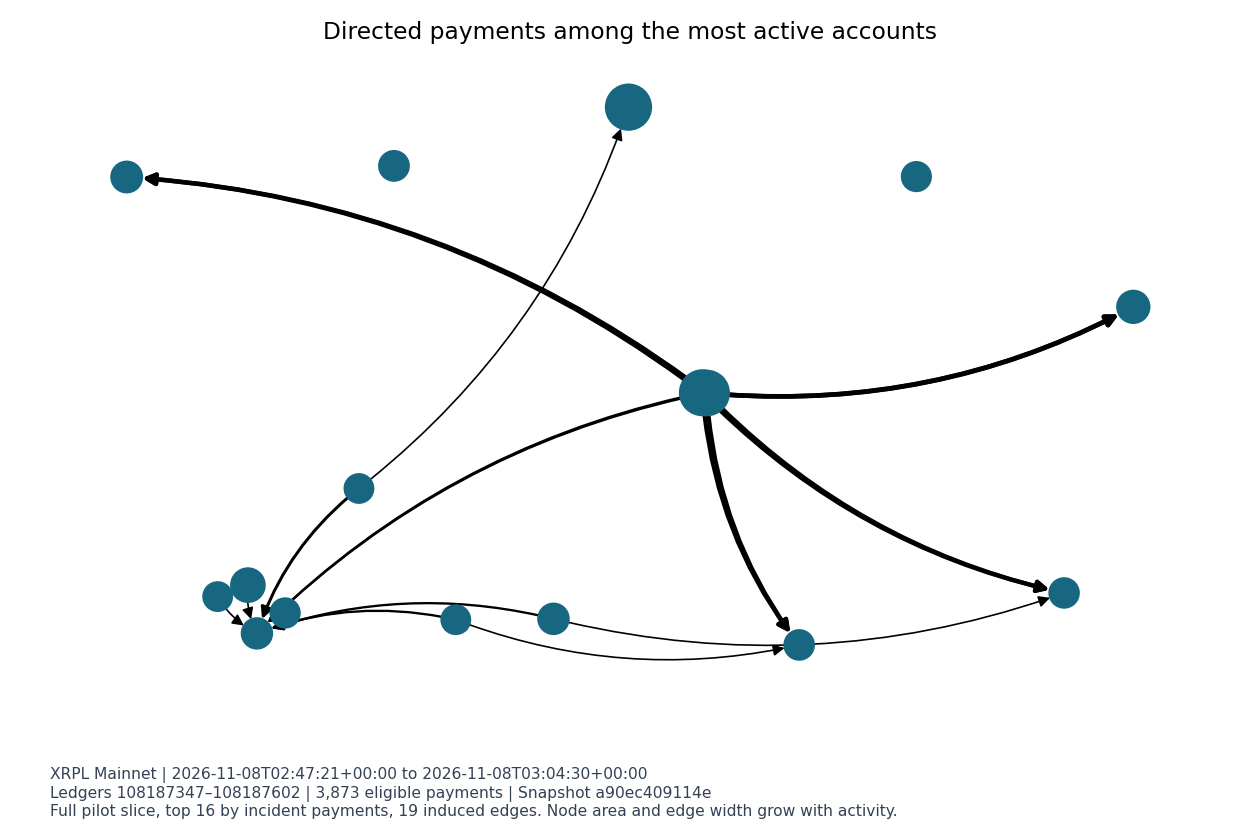
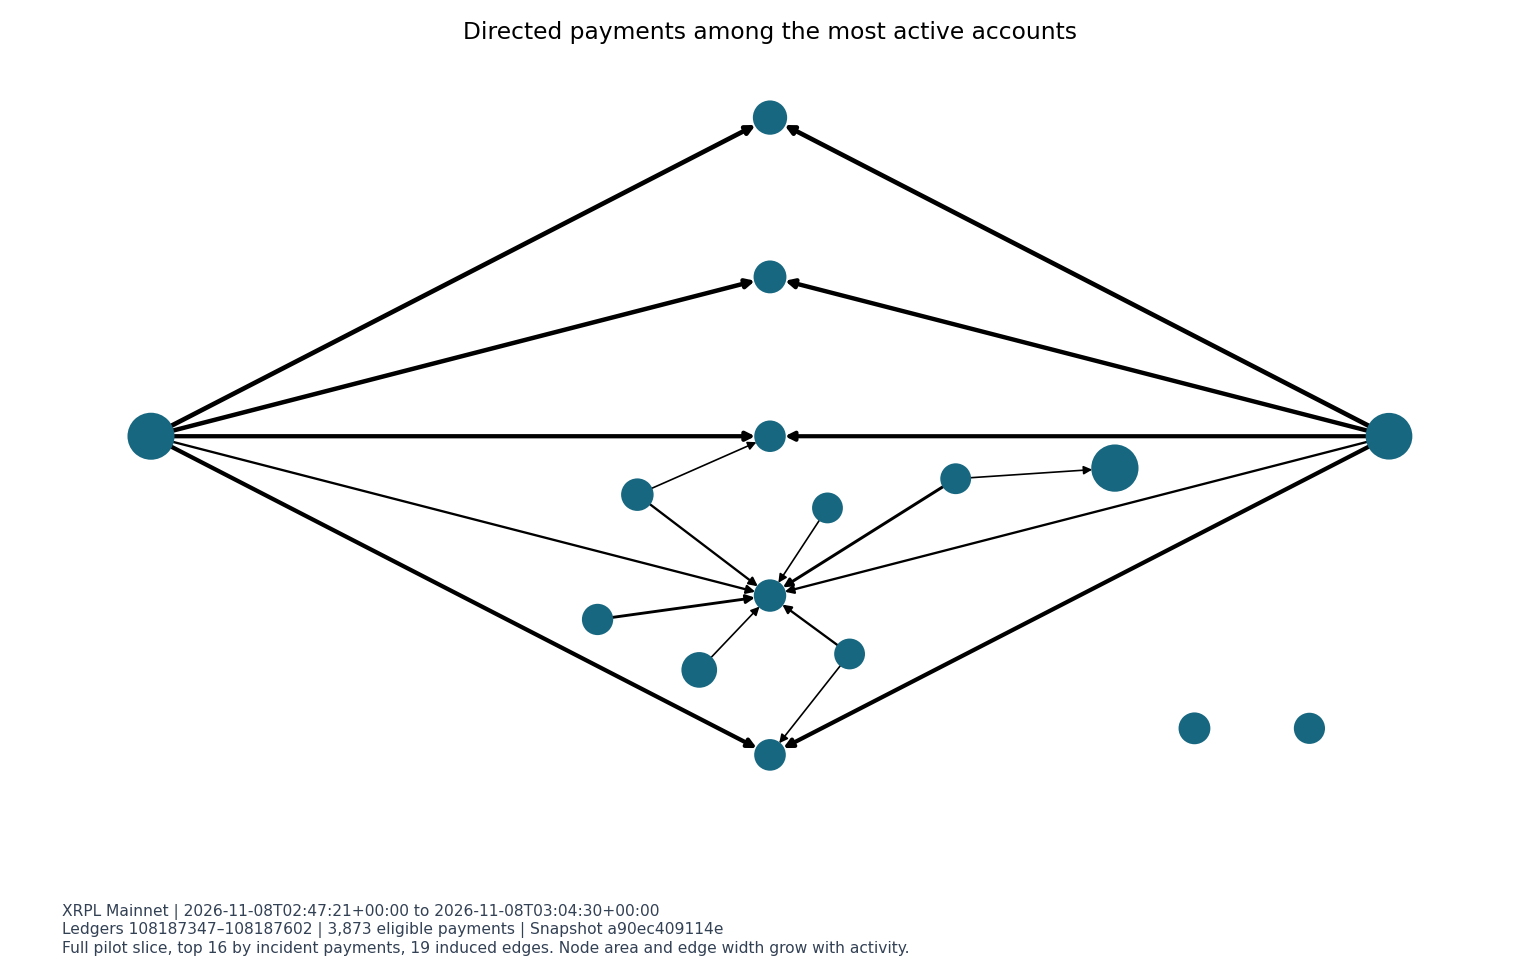
Clarify the frozen pilot payment network

diff --git a/src/xrpl_anomaly/plots.py b/src/xrpl_anomaly/plots.py
@@ -8,6 +8,14 @@ from .pilot import digest, dump
 BIN = 60
 SEED = 42
 MAX_NODES = 16
[1 lines of base64/hex data omitted]
+# Rank-indexed coordinates for the frozen pilot. Put the two senders on
+# opposite sides of their five shared recipients, with isolates at lower right.
+PILOT_LAYOUT = (
+    (3.9, -.6), (-7, 0), (7, 0), (-.8, -4.4), (0, 6), (0, 3),
+    (-1.5, -1.1), (0, -3), (4.8, -5.5), (0, -6), (0, 0), (-1.95, -3.45),
+    (6.1, -5.5), (.65, -1.35), (2.1, -.8), (.9, -4.1),
+)
 
 
 def minute_bins(ledgers):
@@ -101,18 +109,27 @@ def plot(ledgers, full, report, output):
              f"Complete 10-minute history only, n={len(full):,}. Prior activity is limited to eligible payments.")
 
     sizes, edges = graph_data(ledgers)
+    layout_name = None
+    layout_seed = None
     if edges:
         graph = nx.DiGraph()
         graph.add_nodes_from(range(len(sizes)))
         graph.add_weighted_edges_from(edges)
-        fig, ax = plt.subplots(figsize=(9, 6))
-        layout = nx.spring_layout(graph, seed=SEED)
+        frozen_pilot = report["snapshot_sha256"] == PILOT_SNAPSHOT and len(sizes) == len(PILOT_LAYOUT)
+        fig, ax = plt.subplots(figsize=(11, 7) if frozen_pilot else (9, 6))
+        if frozen_pilot:
+            layout = dict(enumerate(PILOT_LAYOUT))
+            layout_name = "frozen-pilot"
+        else:
+            layout = nx.spring_layout(graph, seed=SEED)
+            layout_name, layout_seed = "spring", SEED
         node_areas = [35 + 12 * log1p(n) ** 2 for n in sizes]
         nx.draw_networkx_nodes(graph, layout, node_size=node_areas, node_color="#176780", ax=ax)
         nx.draw_networkx_edges(graph, layout, width=[.5 + .5 * log1p(graph[u][v]["weight"])
                                                     for u, v in graph.edges],
-                               node_size=node_areas, arrowsize=12,
-                               connectionstyle="arc3,rad=0.15", ax=ax)
+                               node_size=node_areas, arrowsize=9 if frozen_pilot else 12,
+                               connectionstyle="arc3,rad=0" if frozen_pilot else "arc3,rad=0.15",
+                               ax=ax)
         ax.set_title("Directed payments among the most active accounts")
         ax.set_axis_off()
         save(fig, "directed-network",
@@ -125,7 +142,8 @@ def plot(ledgers, full, report, output):
         "command_arguments": report["command_arguments"],
         "environment": report["environment"], "matplotlib": matplotlib.__version__,
         "networkx": nx.__version__, "bin_seconds": BIN, "amount_histogram_bins": 35,
-        "feature_histogram_bins": 25, "layout_seed": SEED, "graph_max_nodes": MAX_NODES,
+        "feature_histogram_bins": 25, "graph_layout": layout_name, "layout_seed": layout_seed,
+        "graph_max_nodes": MAX_NODES,
         "graph_slice": report["range"], "graph_selection": "incident payment count descending, address ascending",
         "graph_edges": len(edges), "graph_nodes": len(sizes), "files": files,
     })

diff --git a/tests/test_phase2.py b/tests/test_phase2.py
@@ -261,3 +261,22 @@ class PlotTests(unittest.TestCase):
             self.assertEqual(len(list(output.glob("*.png"))), 5)
             plot(data, full, report, output)
             self.assertEqual(before, (output / "figure-metadata.json").read_bytes())
+
+    def test_induced_graph_keeps_isolates_and_shared_recipient_edges(self):
+        # Synthetic payments reproduce the published graph's topology by rank.
+        pairs = [(sender, receiver) for sender in (1, 2) for receiver in (4, 5, 7, 9, 10)]
+        pairs += [(3, 7), (6, 7), (6, 10), (11, 7), (13, 7),
+                  (14, 0), (14, 7), (15, 7), (15, 9)]
+        transfers = [(str(sender), str(receiver)) for sender, receiver in pairs]
+        transfers.append(("1", "4"))  # The ordered pair is still one edge.
+        for rank in range(16):
+            account = str(rank)
+            degree = sum(account in pair for pair in transfers)
+            transfers.extend((account, f"outside-{rank}-{i}") for i in range(32 - rank - degree))
+        payments = [(i, str(i), sender, receiver, 1, 1)
+                    for i, (sender, receiver) in enumerate(transfers)]
+        sizes, edges = graph_data([(1, 0, payments)])
+        self.assertEqual(sizes, list(range(32, 16, -1)))
+        self.assertEqual(len(edges), 19)
+        self.assertEqual({(u, v) for u, v, _ in edges}, set(pairs))
+        self.assertIn((1, 4, 2), edges)

diff --git a/docs/figures.md b/docs/figures.md
@@ -41,13 +41,13 @@ The [audit commands](phases/phase5-audit.md#figure-audit) regenerate the frozen 
 
 ## Existing figure inventory
 
-The table groups distinct PNG filenames by generation stage. Audit repeats and tracking copies reuse the same filenames. The README gallery uses byte-for-byte copies of four existing PNGs.
+The table groups distinct PNG filenames by generation stage. Audit repeats and tracking copies reuse the same filenames. The README gallery uses three archived PNGs and a revised rendering of the original pilot network.
 
 | Figure | Purpose | Generation source |
 | --- | --- | --- |
 | `payment-counts.png`, `xrp-volume.png` | Eligible payment counts and delivered XRP by UTC minute | Phase 2 pilot coverage and normalized payments via [`analysis.py`](../src/xrpl_anomaly/analysis.py) and [`plots.py`](../src/xrpl_anomaly/plots.py). Phase 3A also replayed the pilot. |
 | `amount-fee.png`, `history-features.png` | Amount and fee distributions and eligible prior activity | Same Phase 2 and 3A plotting path |
-| [`directed-network.png`](images/directed-network.png) | Unlabeled directed pilot subgraph | Original Phase 2 pilot, ledgers 108187347–108187602, snapshot prefix `a90ec409114ee`, layout seed 42 |
+| [`directed-network.png`](images/directed-network.png) | Unlabeled directed pilot subgraph | Original Phase 2 pilot, ledgers 108187347–108187602, snapshot prefix `a90ec409114ee`. The fixed layout in [`plots.py`](../src/xrpl_anomaly/plots.py) separates the two senders with five shared recipients. The two isolates appear at lower right. |
 | `pilot-sparsity-and-ties.png`, `training-recurrence.png` | Pilot sparsity and score ties, plus training-block graph recurrence | [Phase 3B.1 training and pilot summaries](phases/phase3b1.md) |
 | `block-comparison.png`, `detector-scores.png`, `feature-ablation.png`, `feature-distributions.png`, `graph-recurrence.png`, `sparse-features.png`, `synthetic-severity.png` | Training and development comparisons, observed feature and score behavior, and controlled changes | [Phase 3B.2 development results](phases/phase3b2.md) via [`development_figures.py`](../src/xrpl_anomaly/development_figures.py) |
 | [`ablation-and-blocks.png`](images/ablation-and-blocks.png), `synthetic-families.png` | Synthetic average precision by feature set, test block, or perturbation family and strength | Frozen Phase 3B.3 evaluation, clean scores and model metadata via [`heldout_figures.py`](../src/xrpl_anomaly/heldout_figures.py). The gallery uses the [Phase 5 audited copy](phases/phase5-audit.md#figure-audit). |
